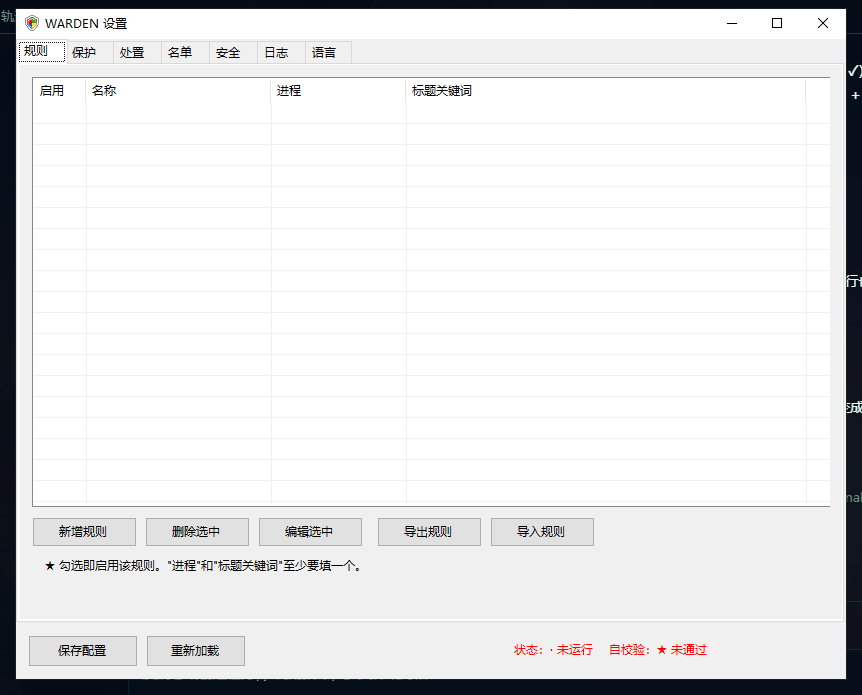
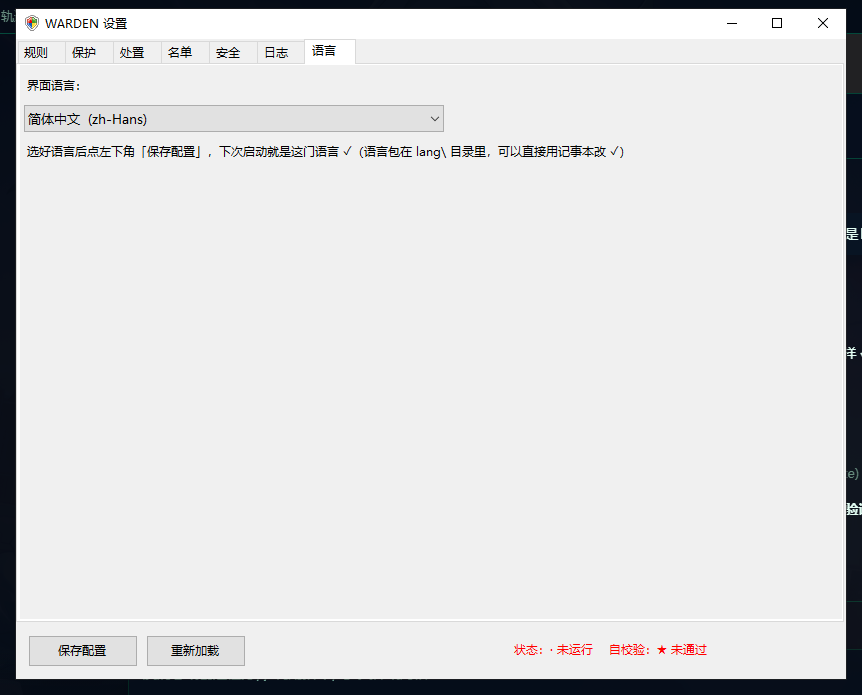
0.2.1（Beta 2 小修复）：修语言包 = 号 bug + 重做截图 + 版本号统一
① 修 bug：语言包里含 = 的文案永远翻译不出来 ✗
   现象：切 English (UK) 后，设置界面底部提示行仍是中文 ✗
   根因：语言包是「键=值」格式 ✗ 而文案本身含 " = "（★ 勾选 = 启用该规则。…）
        → 从第一个等号切开 ✗ 键变成「★ 勾选 」✗ 永远查不到 → 回退中文 ✓
   修法：文案改「★ 勾选即启用该规则。…」✓ 六个语言包 + master 同步 ✓
   ★ 规矩：语言包的键不能含 = ✗（以后长文案避开它或用独立 key ✓）

② 截图重做（用户三点指正 ✓ 全改）
   · 只截窗口本身（Win32 GetWindowRect 取矩形 → 按 bbox 裁 ✓
     三张都是 862×695，像"完整界面"而不是"桌面一角"✓）
   · 英文截图是真英文（截图前切 lang=en-GB 再启动 ✓
     现在提示行也是 ★ Tick to enable this rule. Fill in at least one of
     "process" or "title keywords". ✓）
   · 语言页签那张终于对了 ✓
     之前失败根因：① 用 TCM_SETCURSEL 没生效 ✗ ② 我按窗口宽度÷7 估坐标 ✗
     实际七个页签只占左侧约 370 px ✓「语言」中心在 +345 处 ✗ 我点了 +508 ✓
     这次用真鼠标点击 + 【像素验证】（活动页签是白色 ✓）
       规则页签(60,45) 白? False   语言页签(345,45) 白? True ✓✓

③ 版本号统一升到 0.2.1（用户要求：Beta 2 的小修复 ✓）
   10 个 csproj + 5 处代码 + release.ps1 = 19 处 ✓

④ 打 Beta 版安装包 + 发 Release v0.2.1（预发布 ✓）
   离线包 / 在线器 / cli / SHA256SUMS 四个资产 ✓
   在线器 --check 实测能认出 v0.2.1 ✓

diff --git a/src/Program.cs b/src/Program.cs
@@ -682,7 +682,7 @@ namespace WARDEN
 
         // ------------------------------------------------------------ 主循环
         /// <summary>程序版本号（与 csproj 里的保持一致）。</summary>
-        private const string Version = "0.1.0-beta.2";
+        private const string Version = "0.2.1";
 
         // ====================================================================
         //  ★★★ 命令行输出：附着到父进程的控制台

diff --git a/tools/cli/Program.cs b/tools/cli/Program.cs
@@ -66,7 +66,7 @@ namespace WardenCli
                 case "rules": return Rules();
                 case "report": return Report();
                 case "version":
-                    Console.WriteLine("WARDEN 0.1.0-beta.2 (AGPL-3.0-or-later)");
+                    Console.WriteLine("WARDEN 0.2.1 (AGPL-3.0-or-later)");
                     Console.WriteLine("数据目录: " + DataDir);
                     return 0;
                 default:

diff --git a/tools/setup/SetupLog.cs b/tools/setup/SetupLog.cs
@@ -80,7 +80,7 @@ namespace WardenSetup
         public static void Begin(string title)
         {
             Line("====", "================ " + title + " ================");
-            Line("====", "version=0.1.0-beta.2"
+            Line("====", "version=0.2.1"
                 + "  os=" + Environment.OSVersion.VersionString
                 + "  clr=" + Environment.Version
                 + "  exe=" + Environment.ProcessPath);

diff --git a/tools/online-setup/Program.cs b/tools/online-setup/Program.cs
@@ -33,7 +33,7 @@ namespace WardenOnlineSetup
     {
         private const string Owner = "Firefly0619sec";
         private const string Repo = "WARDEN";
-        private const string Version = "0.1.0-beta.2";
+        private const string Version = "0.2.1";
         private static readonly string ApiList =
             $"https://api.github.com/repos/{Owner}/{Repo}/releases";
         private static readonly string ApiLatest =

diff --git a/tools/setup/SetupFlow.cs b/tools/setup/SetupFlow.cs
@@ -21,7 +21,7 @@ namespace WardenSetup
     internal static class SetupCore
     {
         private const string PayloadName = "payload.zip";
-        private const string Version = "0.1.0-beta.2";
+        private const string Version = "0.2.1";
         public const string RedTeamExe = "WARDEN-RedTeam.exe";
 
         private static void L(string s) => SetupLog.Line("setup", s);

diff --git a/tools/help/HelpForm.cs b/tools/help/HelpForm.cs
@@ -47,7 +47,7 @@ namespace WardenHelp
 {
     internal static class Program
     {
-        internal const string Version = "0.1.0-beta.2";
+        internal const string Version = "0.2.1";
 
         [STAThread]
         private static void Main(string[] args)
